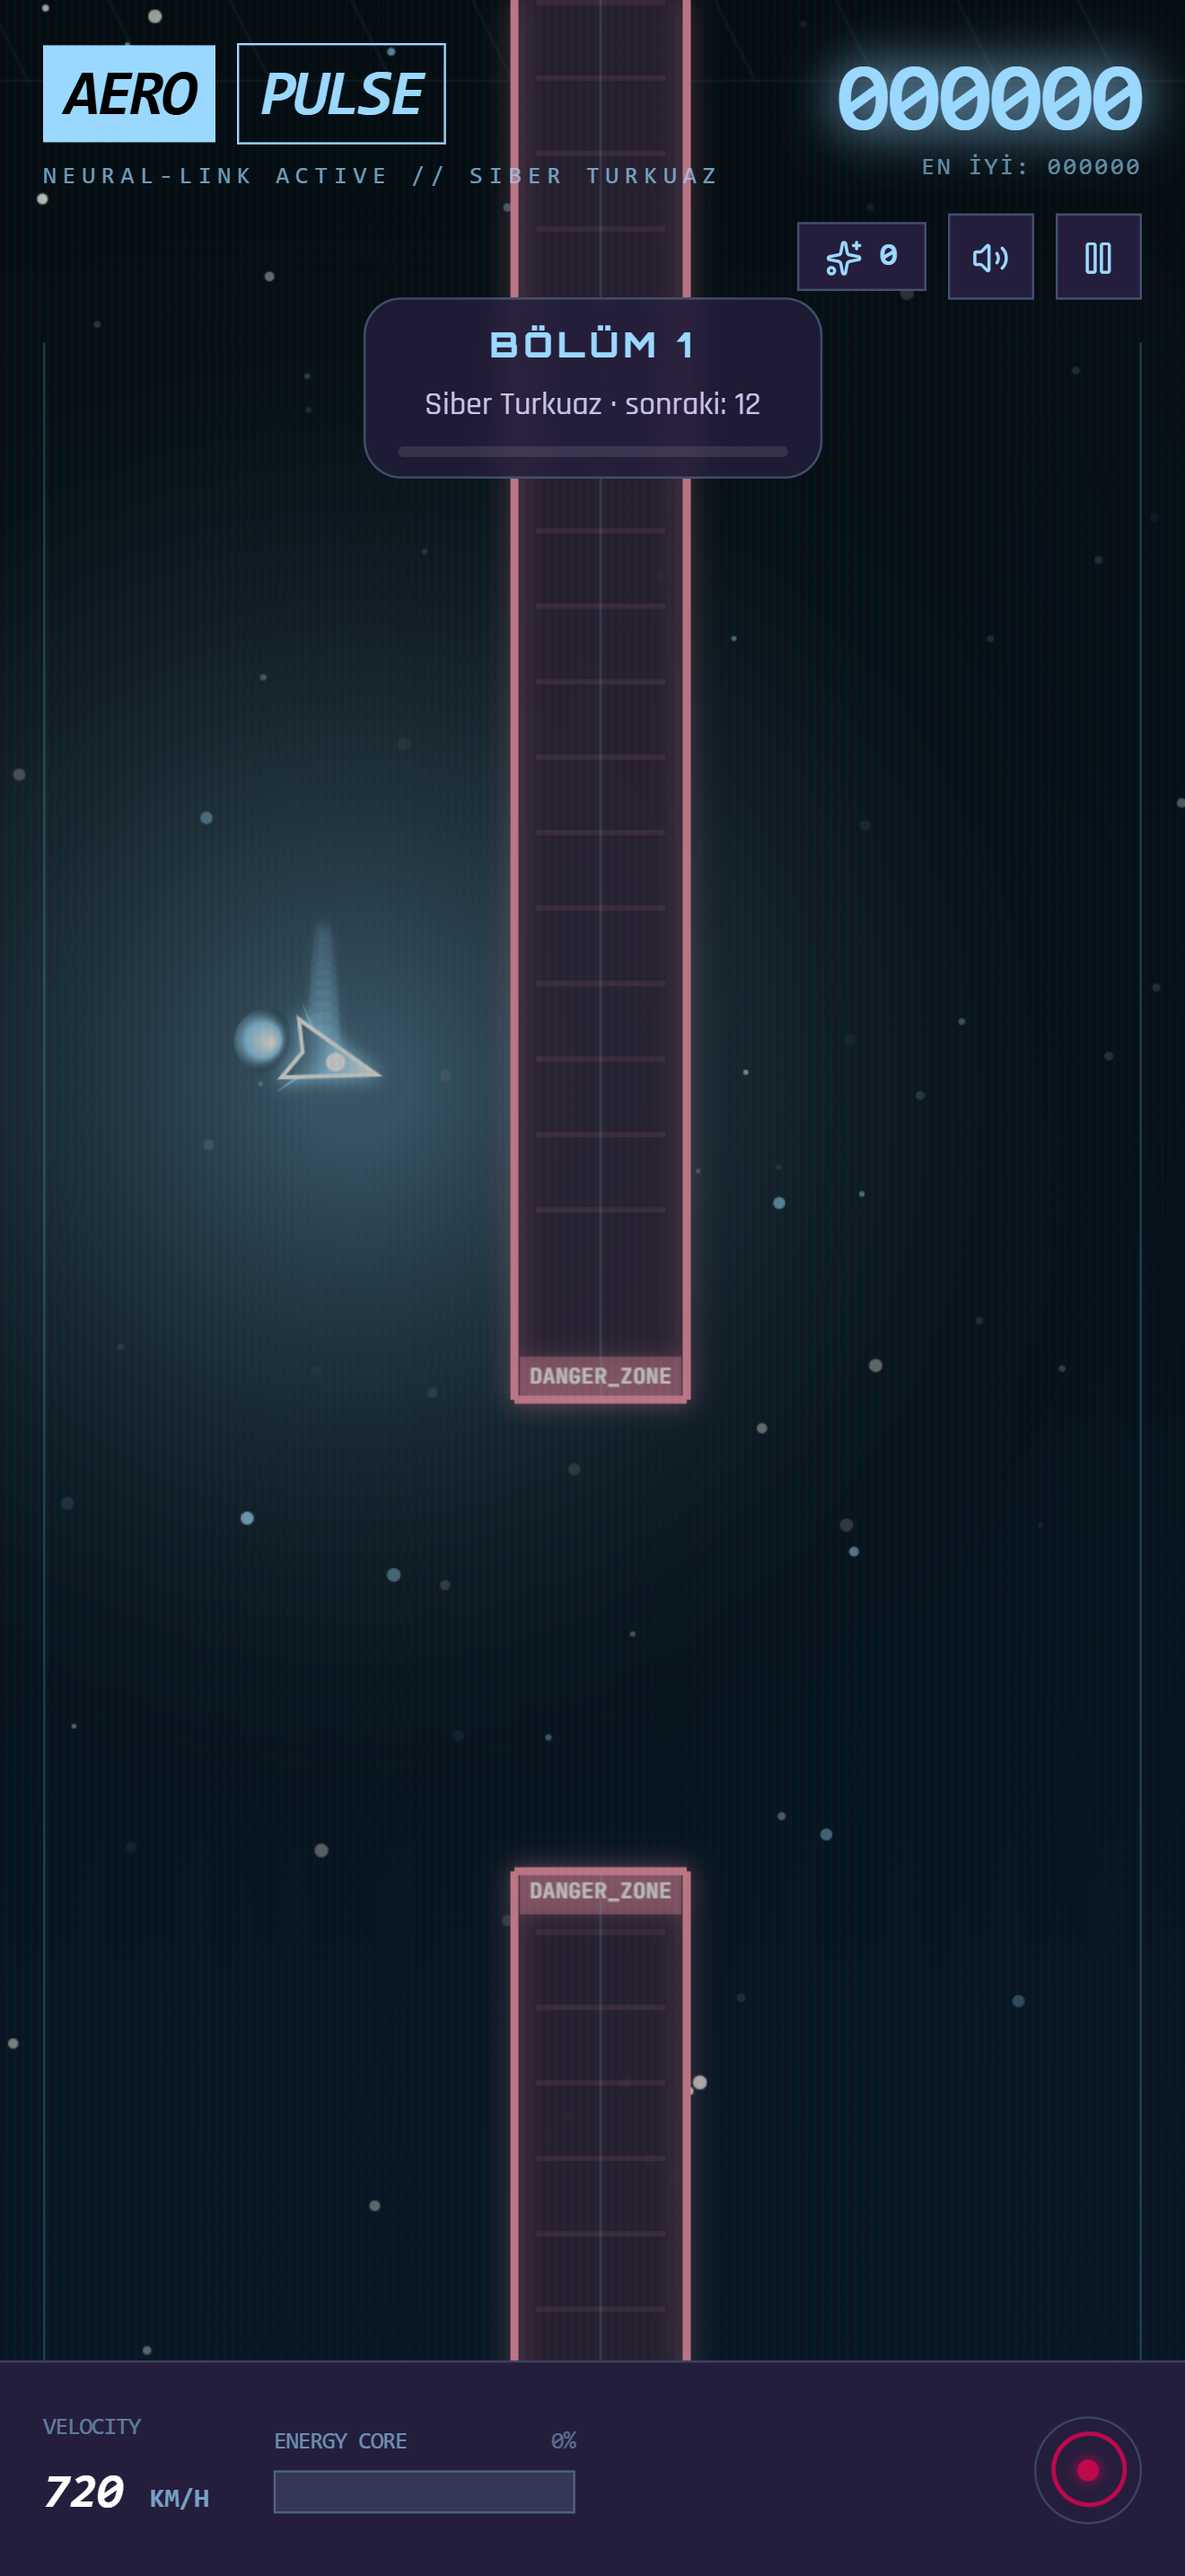
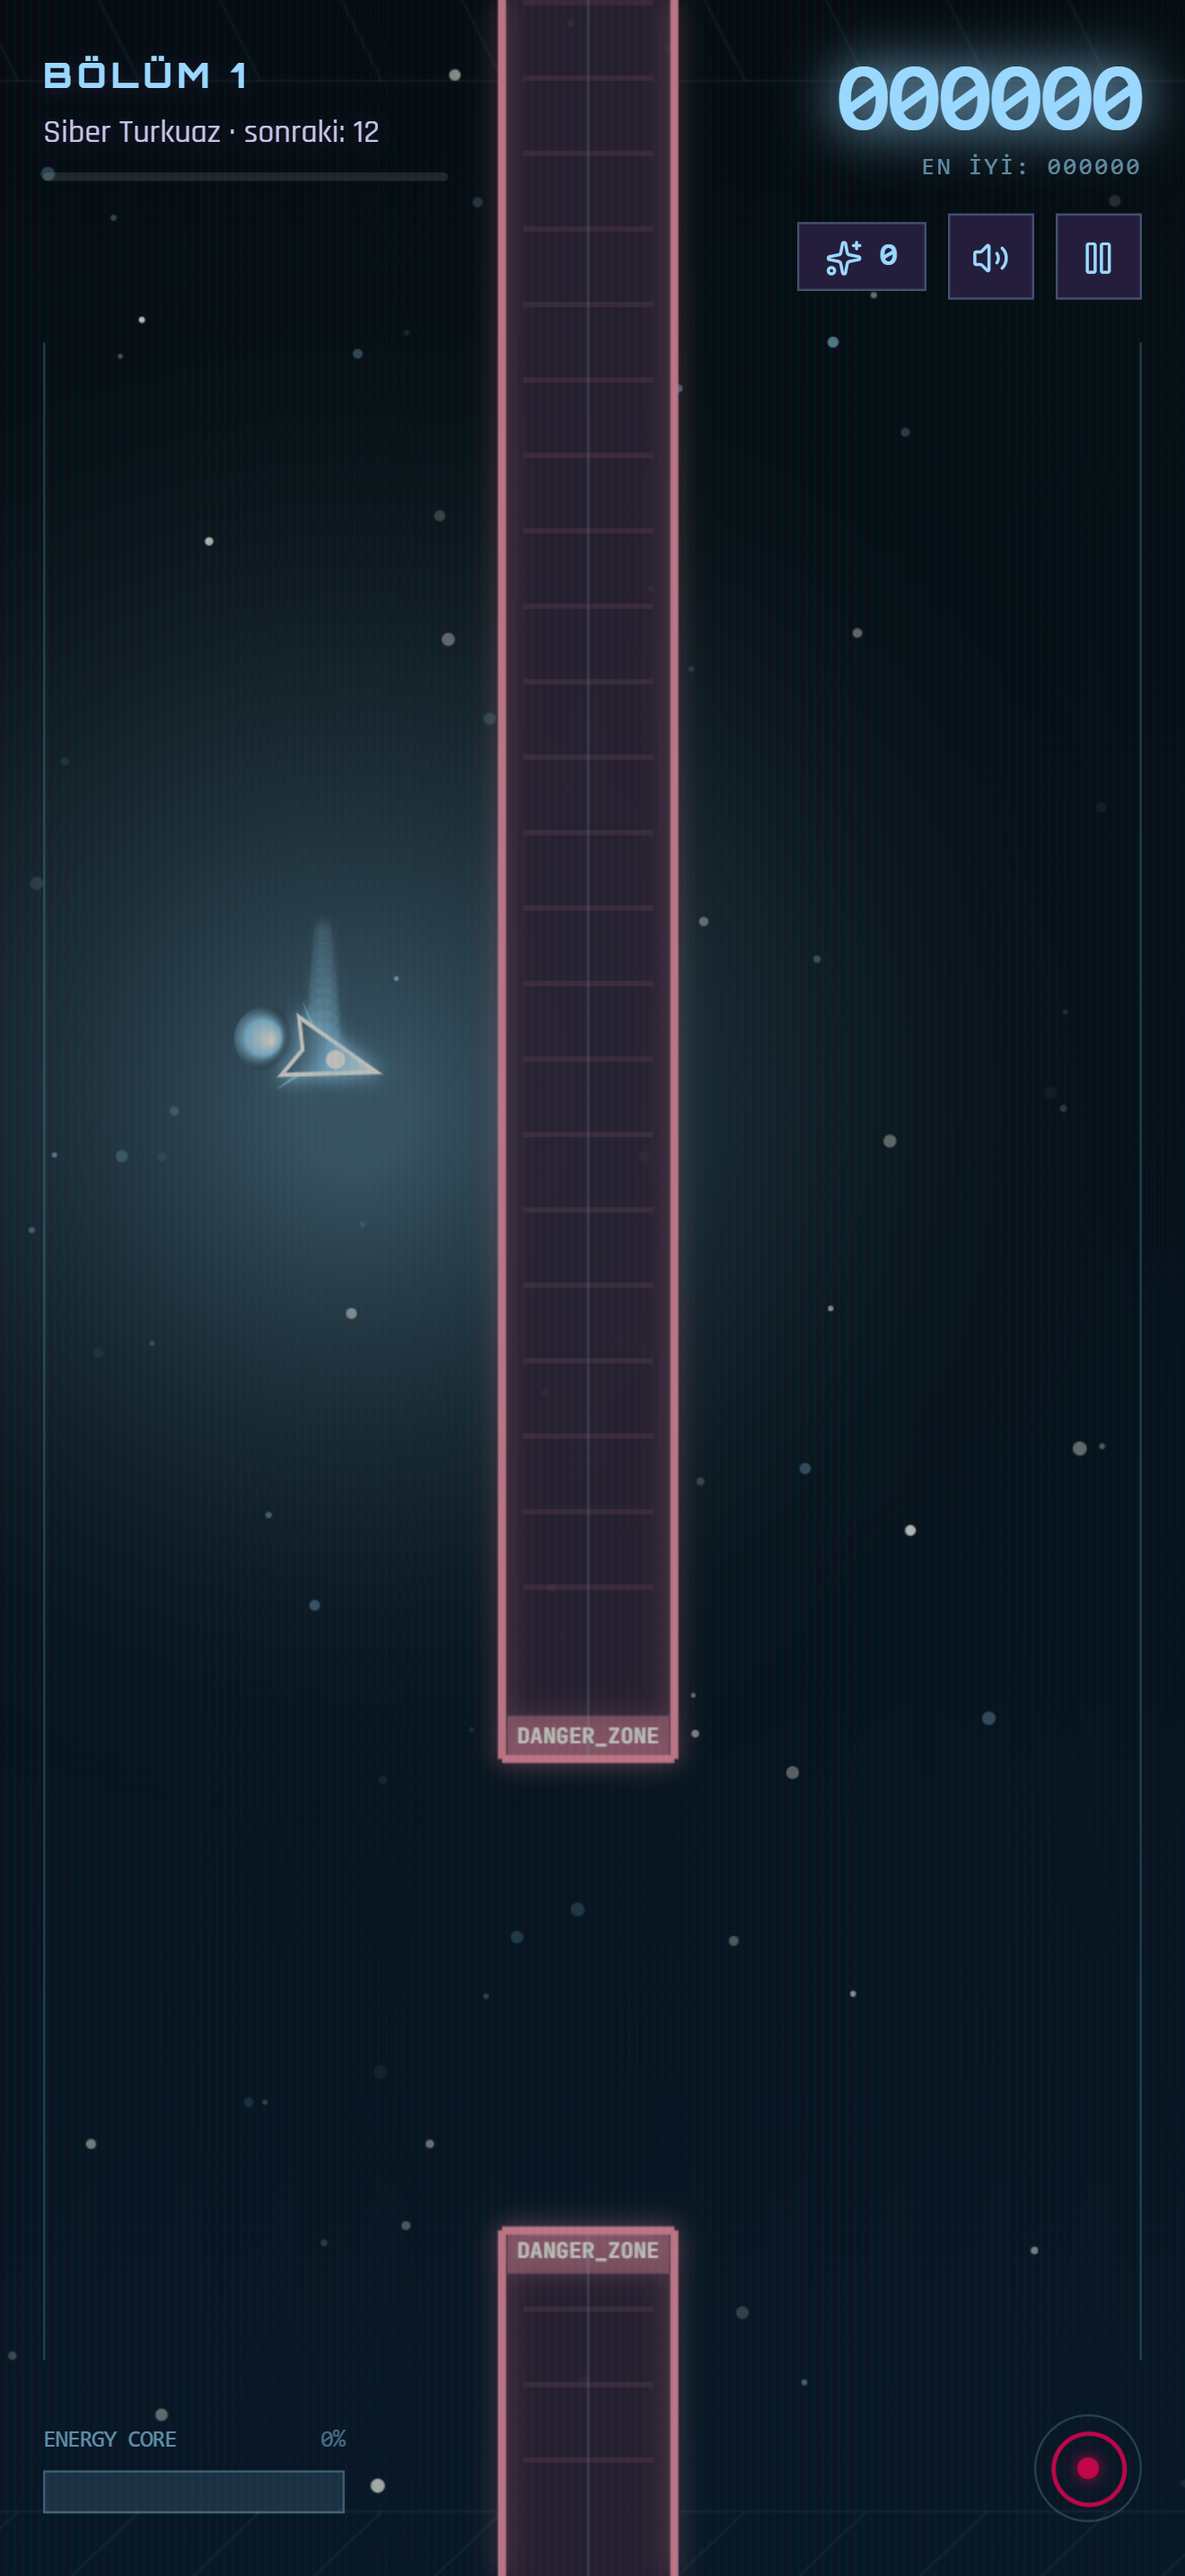
Level text no longer wraps on game over; store screenshots match full-screen HUD

diff --git a/dist/ap-extra.js b/dist/ap-extra.js
@@ -61,7 +61,7 @@ window.AP_SKINS = [
 
   /* kartsiz: logo gizlendigi icin bos kalan sol ust kose; centik/Dynamic Island payi */
   #ap-level{position:fixed;z-index:60;left:max(16px,env(safe-area-inset-left));top:max(16px,env(safe-area-inset-top));pointer-events:none;
-    width:150px;font-family:Rajdhani,system-ui,sans-serif;color:#eef;text-align:left;text-shadow:0 1px 6px #1d1833;transition:opacity .3s}
+    min-width:150px;max-width:60vw;font-family:Rajdhani,system-ui,sans-serif;color:#eef;text-align:left;text-shadow:0 1px 6px #1d1833;transition:opacity .3s}
   #ap-level[hidden]{display:none}
   #ap-level b{font-family:Orbitron,system-ui,sans-serif;font-size:13px;letter-spacing:.14em;color:#9ad8ff}
   #ap-level span{display:block;font-size:12px;color:#c9c2ea;margin-top:1px}
